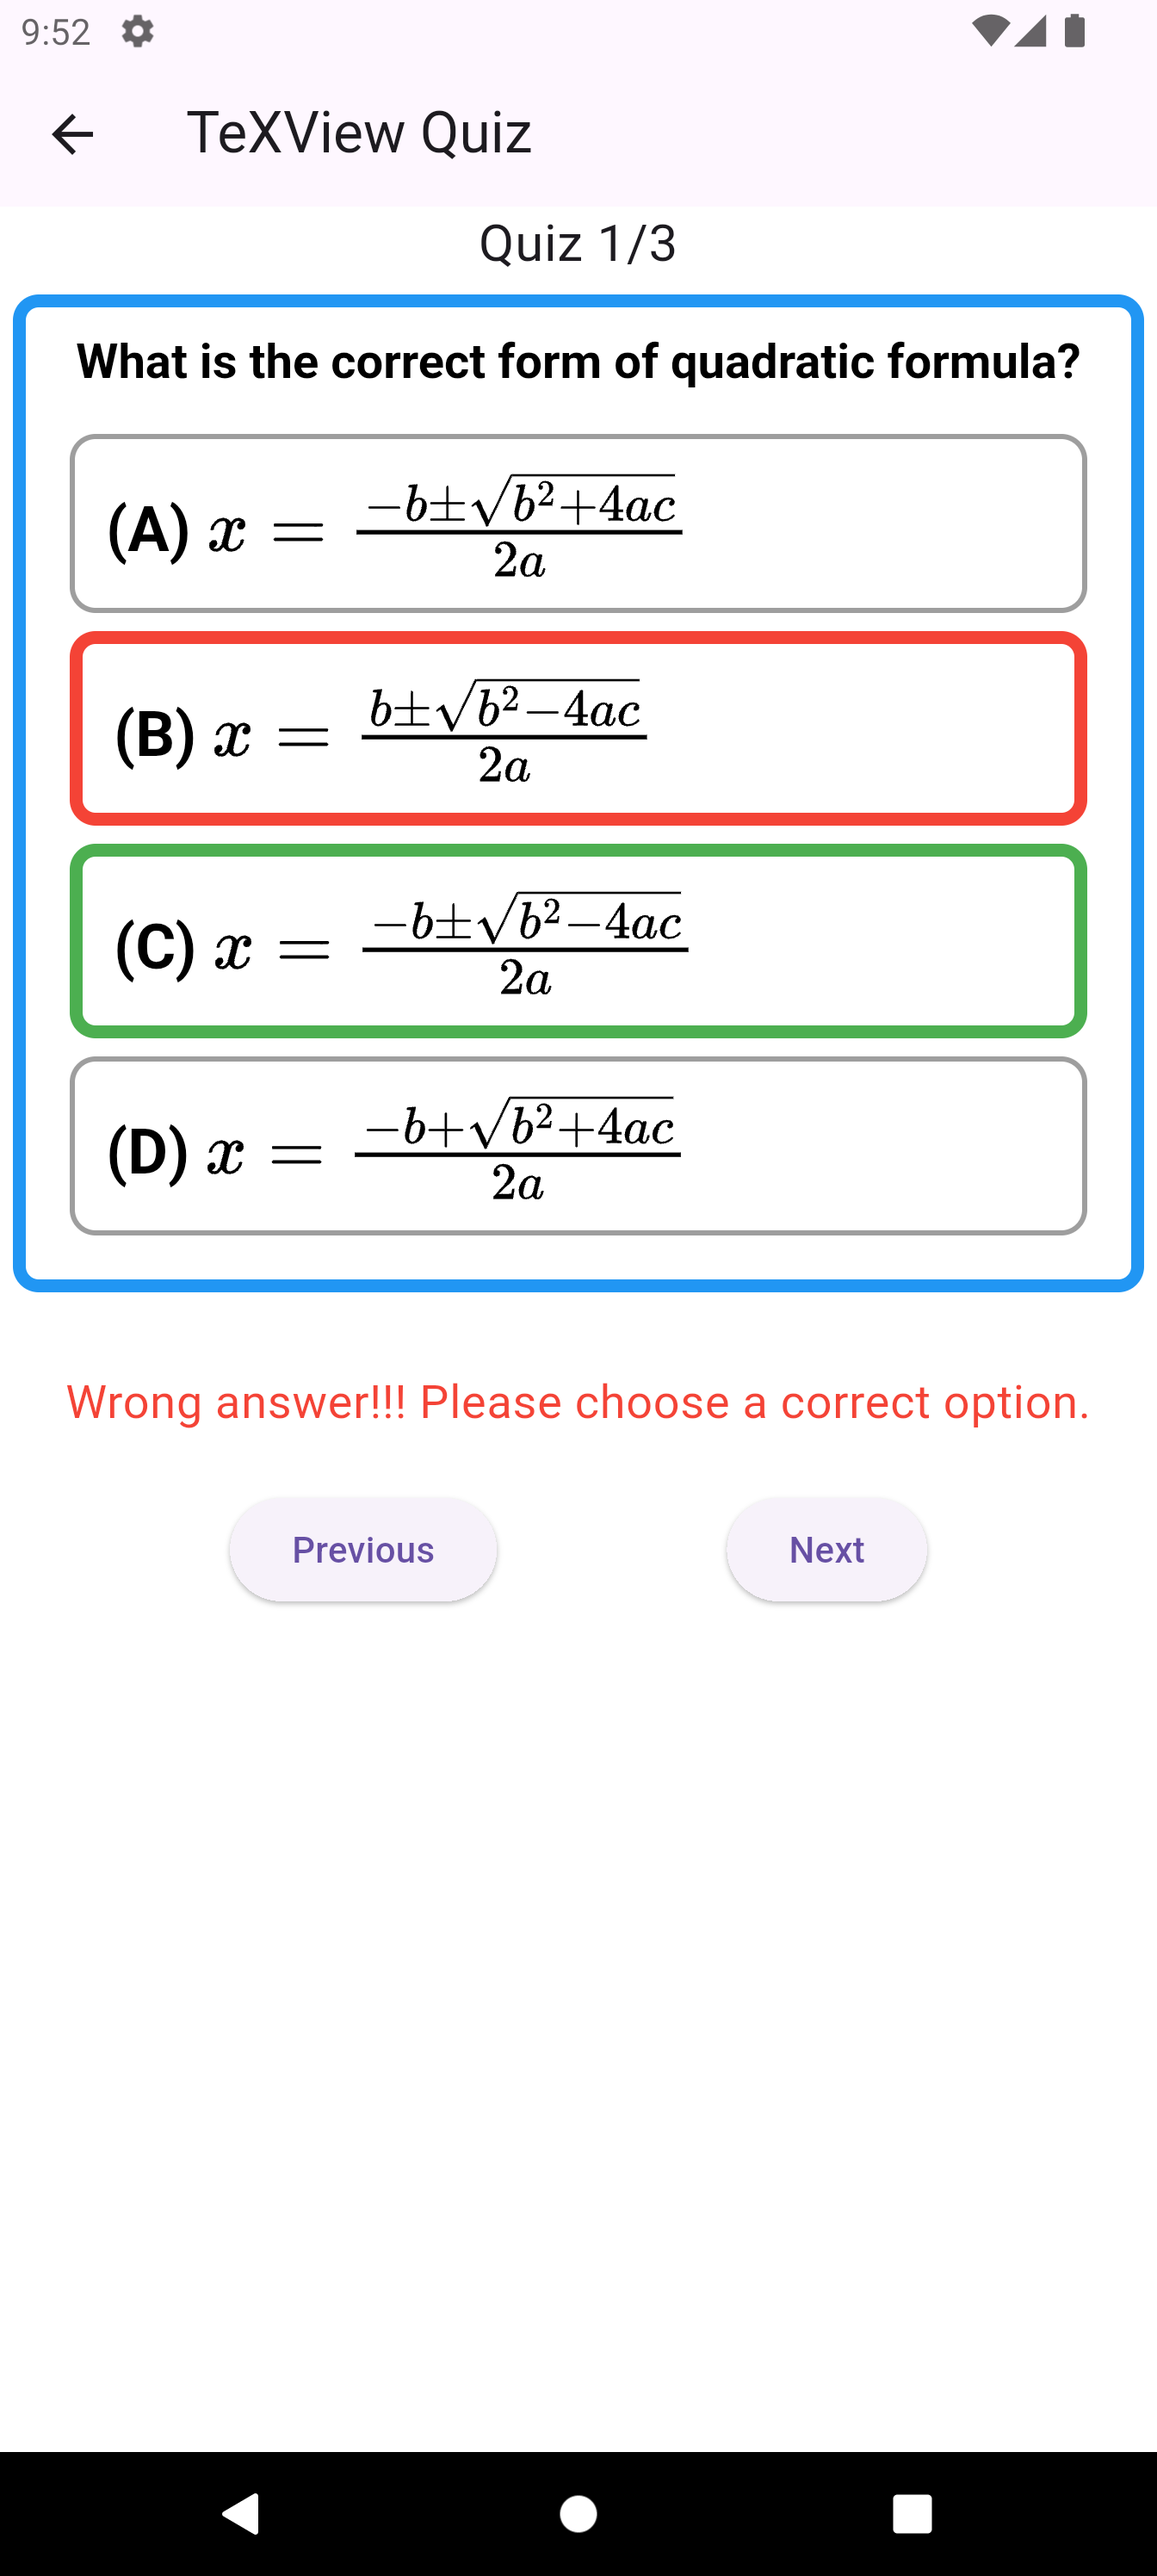
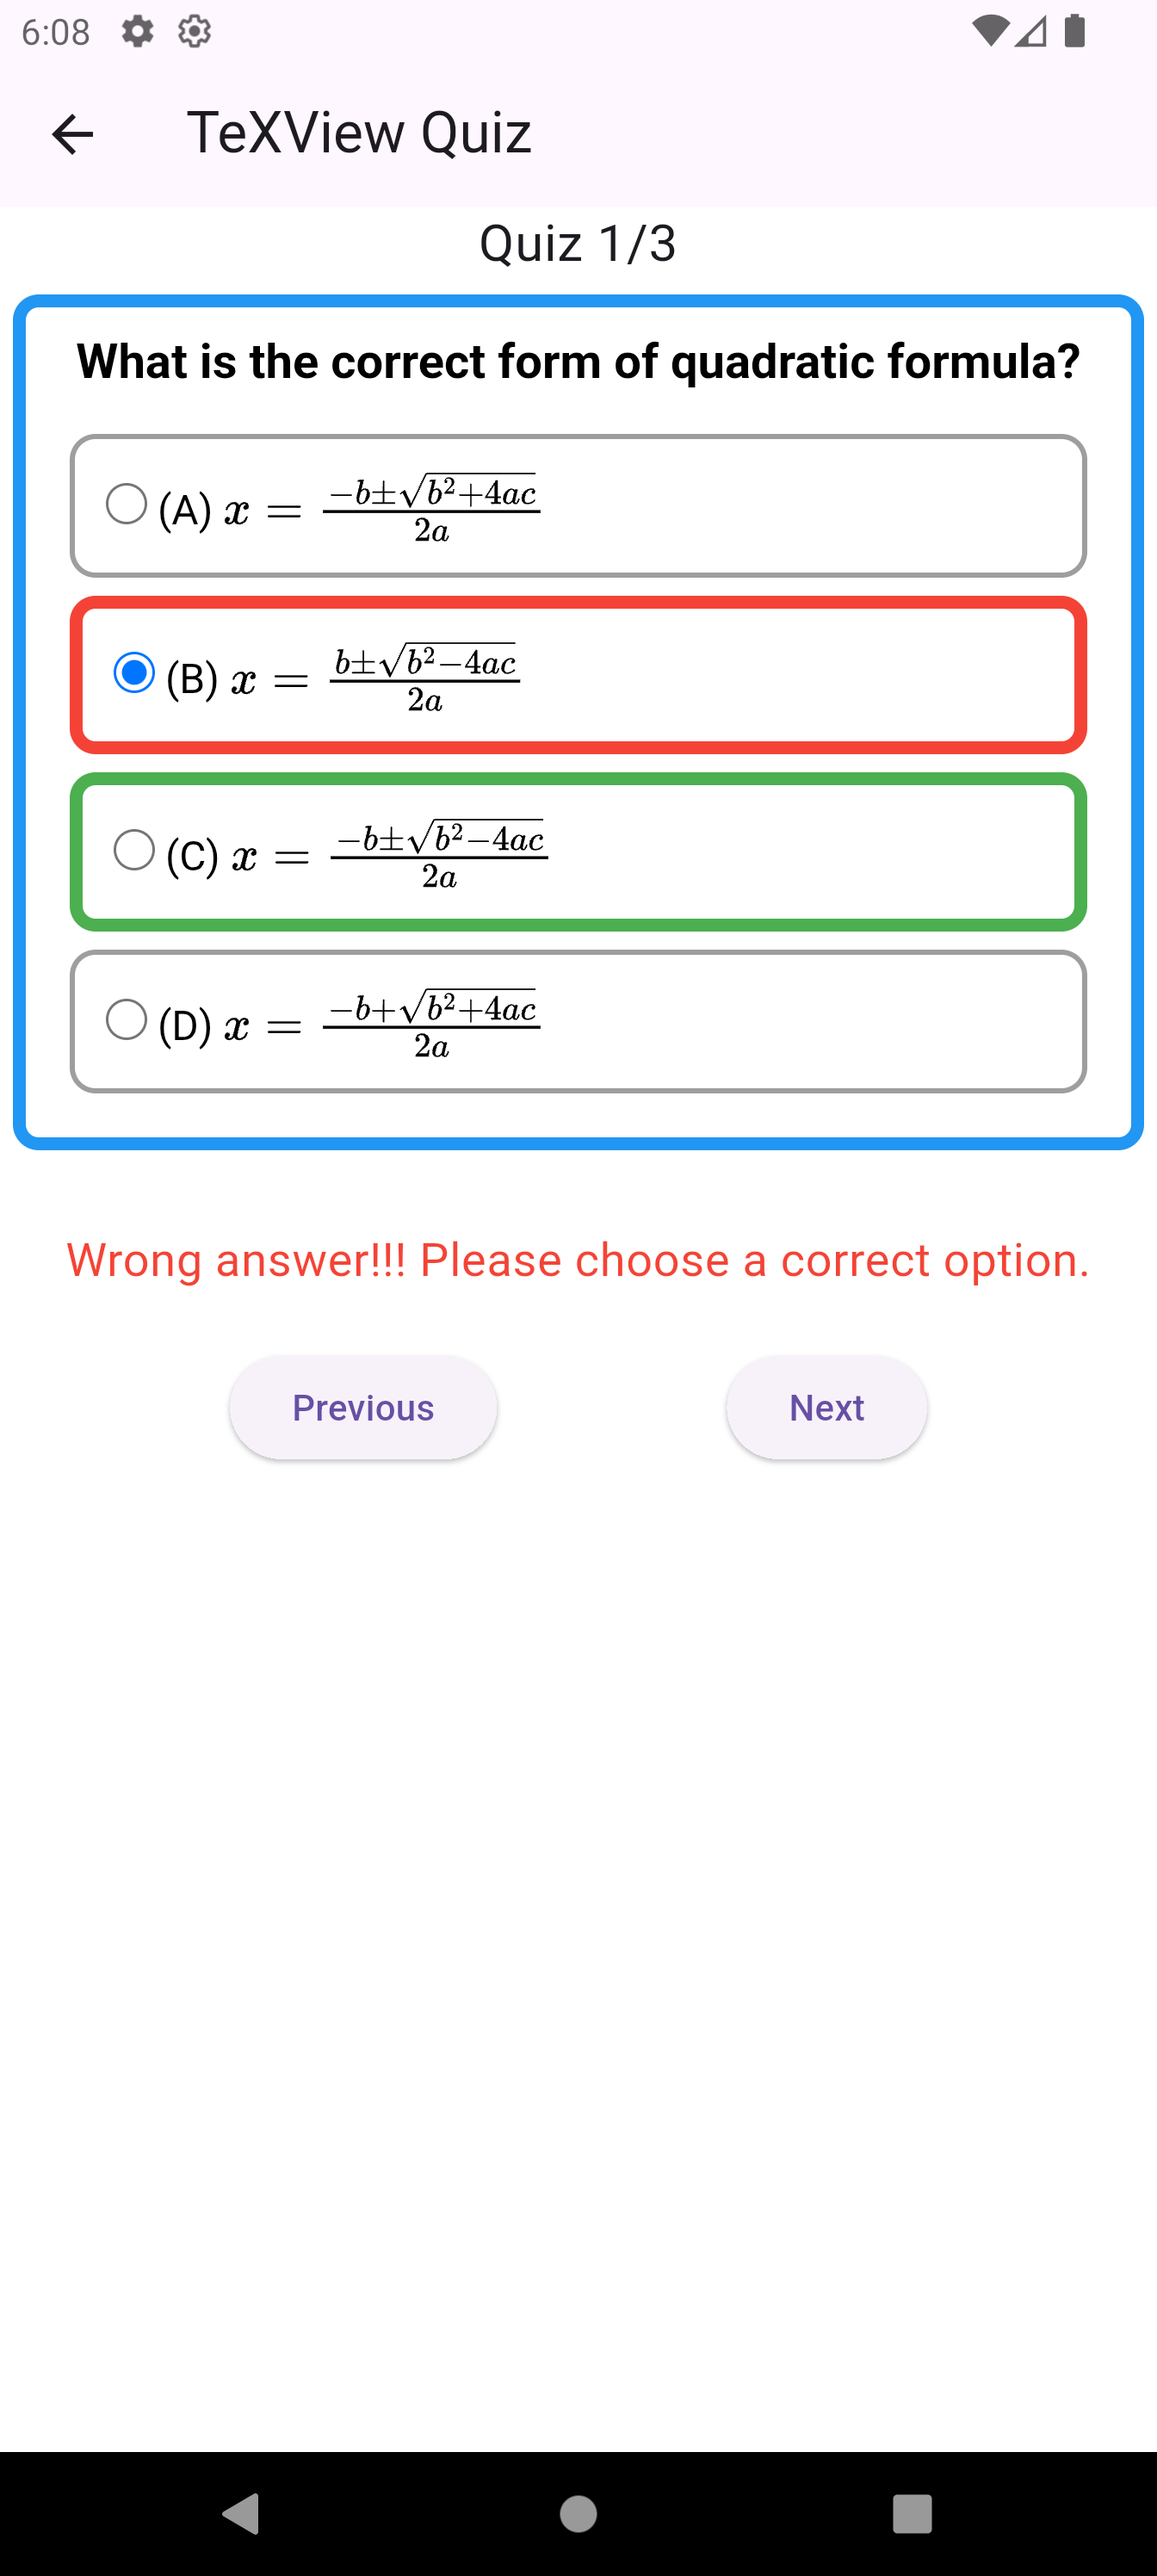
Quiz with radio buttons

diff --git a/lib/core/flutter_tex.js b/lib/core/flutter_tex.js
@@ -1,26 +1,20 @@
 "use strict";
 
-const appAssetsUri = "../../..";
-
-var isWeb;
-
 function initTeXViewMobile(flutterTeXData) {
     var teXViewElement = document.getElementById('TeXView');
     teXViewElement.innerHTML = '';
-    teXViewElement.appendChild(createTeXView(flutterTeXData), teXViewElement, "");
-    renderTeXView(() => renderCompleted(teXViewElement, ""));
+    teXViewElement.appendChild(createTeXView(flutterTeXData), teXViewElement, "", false);
+    renderTeXView(() => renderCompleted(teXViewElement, "", false));
 }
 
 function initTeXViewWeb(iframeContentWindow, iframeId, flutterTeXData) {
-    isWeb = true;
     var teXViewElement = iframeContentWindow.document.getElementById('TeXView');
     teXViewElement.innerHTML = '';
-    teXViewElement.appendChild(createTeXView(JSON.parse(flutterTeXData), teXViewElement, iframeId));
-    iframeContentWindow.renderTeXView(() => renderCompleted(teXViewElement, iframeId));
+    teXViewElement.appendChild(createTeXView(JSON.parse(flutterTeXData), teXViewElement, iframeId, true));
+    iframeContentWindow.renderTeXView(() => renderCompleted(teXViewElement, iframeId, true));
 }
 
-
-function createTeXView(rootData, teXViewElement, iframeId) {
+function createTeXView(rootData, teXViewElement, iframeId, isWeb) {
 
     var meta = rootData['meta'];
     var data = rootData['data'];
@@ -34,47 +28,41 @@ function createTeXView(rootData, teXViewElement, iframeId) {
 
     switch (meta['node']) {
         case 'root': {
-            element.appendChild(createTeXView(data, teXViewElement, iframeId));
+            element.appendChild(createTeXView(data, teXViewElement, iframeId, isWeb));
             break;
         }
         case 'leaf': {
             if (meta['tag'] === 'img') {
                 if (classList === 'tex-view-asset-image') {
-                    element.setAttribute('src', appAssetsUri + '/' + data);
+                    element.setAttribute('src', '../../../' + data);
                 } else {
                     element.setAttribute('src', data);
                     element.addEventListener("load", () =>
-                        renderCompleted(teXViewElement, iframeId)
+                        renderCompleted(teXViewElement, iframeId, isWeb)
 
                     );
                 }
             } else {
                 element.innerHTML = data;
             }
-
             break;
         }
         case 'internal_child': {
-            element.appendChild(createTeXView(data, teXViewElement, iframeId));
-
-            if (classList === 'tex-view-ink-well') clickManager(iframeId, element, id, rootData['rippleEffect']);
+            element.appendChild(createTeXView(data, teXViewElement, iframeId, isWeb));
+            if (classList === 'tex-view-ink-well') clickManager(iframeId, element, id, rootData['rippleEffect'], isWeb);
             break;
         }
 
         default: {
-            if (classList === 'tex-view-group') {
-                createTeXViewGroup(teXViewElement, element, rootData);
-            } else {
-                data.forEach(function (childViewData) {
-                    element.appendChild(createTeXView(childViewData, teXViewElement, iframeId));
-                });
-            }
+            data.forEach(function (childViewData) {
+                element.appendChild(createTeXView(childViewData, teXViewElement, iframeId, isWeb));
+            });
         }
     }
     return element;
 }
 
-function renderCompleted(texViewElement, iframeId) {
+function renderCompleted(texViewElement, iframeId, isWeb) {
     let lastHeight;
 
     function execute() {
@@ -96,13 +84,13 @@ function renderCompleted(texViewElement, iframeId) {
     execute();
 }
 
-
-function clickManager(iframeId, element, id, rippleEffect, callback) {
+function clickManager(iframeId, element, id, rippleEffect, isWeb) {
     element.addEventListener('click', function (e) {
-        if (callback != null) {
-            callback(id);
+
+        if (isWeb) {
+            OnTapCallback(id, iframeId);
         } else {
-            onTapCallback(id, iframeId);
+            OnTapCallback.postMessage(id);
         }
 
         if (rippleEffect) {
@@ -118,15 +106,6 @@ function clickManager(iframeId, element, id, rippleEffect, callback) {
     });
 }
 
-
-function onTapCallback(message, iframeId) {
-    if (isWeb) {
-        OnTapCallback(message, iframeId);
-    } else {
-        OnTapCallback.postMessage(message);
-    }
-}
-
 function getTeXViewHeight(view) {
     var height = view.offsetHeight,
         style = window.getComputedStyle(view)
@@ -137,60 +116,4 @@ function getTeXViewHeight(view) {
         .reduce(function (total, side) {
             return total + side;
         }, height)
-}
-
-///////////////////////////////////////////////////////// Deprecated /////////////////////////////////////////////////
-
-function createTeXViewGroup(teXView, element, rootData) {
-
-    var normalStyle = rootData['normalItemStyle'];
-    var selectedStyle = rootData['selectedItemStyle'];
-    var single = rootData['single'];
-
-    var selected = rootData['selected'];
-
-    var selectedIds = [];
-
-    rootData['data'].forEach(function (data) {
-        data['style'] = normalStyle;
-        var item = createTeXView(data);
-        var id = data['meta']['id'];
-        item.setAttribute('id', id);
-
-        if (single && selected === id) {
-            item.setAttribute('style', selectedStyle);
-        }
-
-        clickManager(item, id, rootData['rippleEffect'], function (clickedId) {
-            if (clickedId === id) {
-                if (single) {
-                    if (selected !== null) element.querySelector('#' + selected).setAttribute('style', normalStyle);
-                    item.setAttribute('style', selectedStyle);
-                    selected = clickedId;
-                    onTapCallback(clickedId);
-                } else {
-                    if (arrayContains(selectedIds, clickedId)) {
-                        document.getElementById(clickedId).setAttribute('style', normalStyle);
-                        selectedIds.splice(selectedIds.indexOf(clickedId), 1);
-                    } else {
-                        document.getElementById(clickedId).setAttribute('style', selectedStyle);
-                        selectedIds.push(clickedId);
-                    }
-                    onTapCallback(JSON.stringify(selectedIds));
-                }
-            }
-            renderCompleted(teXView);
-        });
-        element.appendChild(item);
-    });
-}
-
-function arrayContains(array, obj) {
-    var i = array.length;
-    while (i--) {
-        if (array[i] === obj) {
-            return true;
-        }
-    }
-    return false;
 }

diff --git a/lib/flutter_tex.dart b/lib/flutter_tex.dart
@@ -13,8 +13,6 @@ export 'package:flutter_tex/src/tex_widget/tex2svg.dart';
 export 'package:flutter_tex/src/tex_view/widgets/column.dart';
 export 'package:flutter_tex/src/tex_view/widgets/container.dart';
 export 'package:flutter_tex/src/tex_view/widgets/document.dart';
-export 'package:flutter_tex/src/tex_view/widgets/group.dart';
-export 'package:flutter_tex/src/tex_view/widgets/group_item.dart';
 export 'package:flutter_tex/src/tex_view/widgets/image.dart';
 export 'package:flutter_tex/src/tex_view/widgets/ink_well.dart';
 export 'package:flutter_tex/src/tex_view/widgets/markdown.dart';

diff --git a/README.md b/README.md
@@ -1,7 +1,7 @@
 # flutter_tex
 [![GitHub stars](https://img.shields.io/github/stars/Shahxad-Akram/flutter_tex?style=social)](https://github.com/Shahxad-Akram/flutter_tex/stargazers) [![pub package](https://img.shields.io/pub/v/flutter_tex.svg)](https://pub.dev/packages/flutter_tex)
 
-<img src="https://raw.githubusercontent.com/Shahxad-Akram/flutter_tex/master/example/assets/flutter_tex_banner.png" alt=""/>
+<img src="example/assets/flutter_tex_banner.png" alt=""/>
 
 # Contents
 - [flutter\_tex](#flutter_tex)

diff --git a/CHANGELOG.md b/CHANGELOG.md
@@ -1,6 +1,5 @@
 ## [5.1.10]
-* [Quiz Example](https://github.com/Shahxad-Akram/flutter_tex/blob/master/example/lib/tex_view_quiz_example.dart) updated with radio buttons.
-
+* `TeXViewGroupItem` and `TeXViewGroup` have been removed see the [Quiz Example](https://github.com/Shahxad-Akram/flutter_tex/blob/master/example/lib/tex_view_quiz_example.dart)
 
 ## [5.1.9]
 * [Quiz Example](https://github.com/Shahxad-Akram/flutter_tex/blob/master/example/lib/tex_view_quiz_example.dart) updated with radio buttons.
